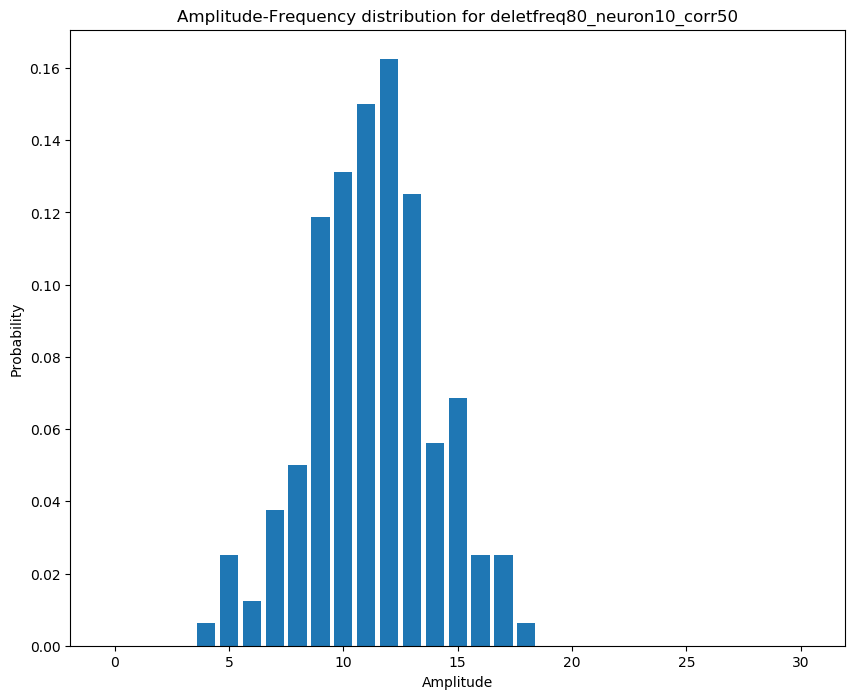
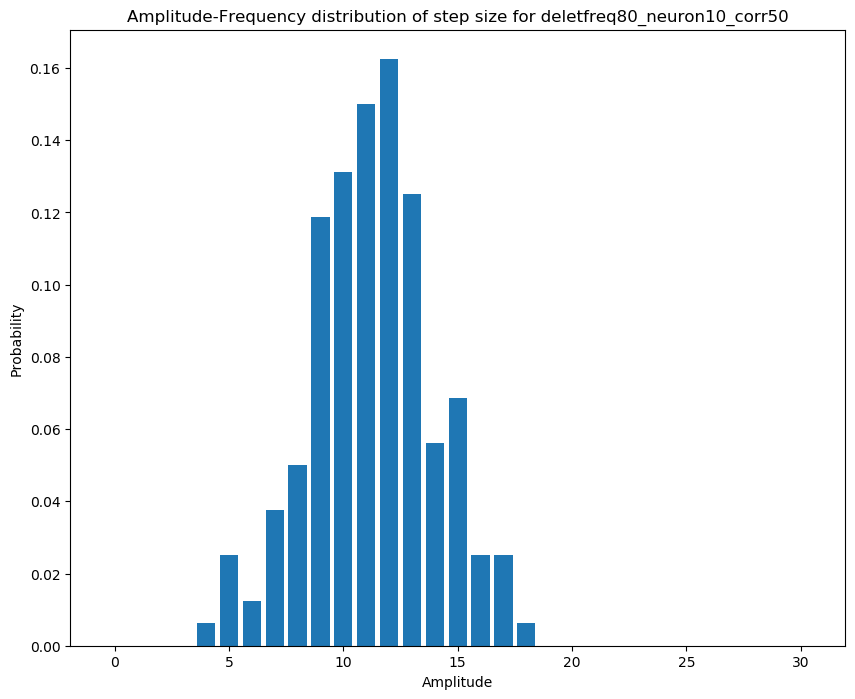
amplitude distribution of pauses in ms

Changed region(s): [[0.152, 0.0, 0.9123, 0.03]]

diff --git a/BasicModelSimulations/rasterplot.py b/BasicModelSimulations/rasterplot.py
@@ -5,9 +5,7 @@ import scipy.io as sio
 import numpy as np
 import os
 import warnings
-from scipy.ndimage import gaussian_filter1d
 from scipy import signal
-from scipy.signal import savgol_filter
 
 def progressbar(acc, total, total_bar):
     """ simple progressbar """
@@ -141,7 +139,7 @@ hist, bins = np.histogram(all_spikes, t_vec)
 plt.figure(2, figsize=(10,8))
 plt.hist(hist[hist != 0], range(31), ec='black')
 locs, labels = plt.yticks()
-plt.title("Amplitude distribution for " + exp_name)
+plt.title("Amplitude distribution of step size for " + exp_name)
 plt.xlabel('Amplitude')
 plt.ylabel('Nr of repetitions')
 plt.savefig(RESULTS_FOLDER + "\\" + "Amplitude distribution",bbox_inches='tight')
@@ -167,7 +165,7 @@ bars_full[bars] = bars_counts
 probs_full = bars_full/bars_full.sum()
 
 plt.figure(3, figsize=(10,8))
-plt.title("Amplitude-Frequency distribution for " + exp_name )
+plt.title("Amplitude-Frequency distribution of step size for " + exp_name )
 
 plt.bar(np.arange(len(bars_full)),probs_full)
 plt.xlabel('Amplitude')
@@ -214,7 +212,7 @@ plt.hist(hist[hist != 0], range(max_bin+1), ec='black')
 locs, labels = plt.yticks()
 plt.title("Amplitude distribution for bins of " + str(bin) + " ms for " + exp_name)
 plt.xlabel('Amplitude')
-plt.ylabel('Nr of repetitions')
+plt.ylabel('Counts')
 plt.savefig(RESULTS_FOLDER + "\\" + "Amplitude_distribution_bins",bbox_inches='tight')
 
 
@@ -252,60 +250,48 @@ plt.savefig(RESULTS_FOLDER + "\\" + "Amplitude-Frequency distribution bins",bbox
 
 ############################################################################################################
 ############################################################################################################
-#INVERSE AMPLITUDE DISTRIBUTION (PAUSES)
+#PAUSE AMPLITUDE DISTRIBUTION
 
-
-inverted_spike_bits = 1 - spike_bits
 #changing bits to actual times when there was no firing (inverse of firing)
-all_inverted_spikes = (np.nonzero(inverted_spike_bits[0,:])[0])/100
-for skptr in range(1,len(inverted_spike_bits)):
-      all_inverted_spikes = np.concatenate((all_inverted_spikes,
-                                            (np.nonzero(inverted_spike_bits[skptr,:])[0])/100), axis=None )
+inverted_spike_bits = 1 - spike_bits
+
+all_pauses =  np.zeros(inverted_spike_bits.shape[1])
+
+#logical and to get all pauses in a single vector
+for i in range(inverted_spike_bits.shape[1]):
+    if (all(inverted_spike_bits[:,i])):
+        all_pauses[i] = 1
 
 
+#count how many steps are in each pause
+consec_pauses = []
 
-np.sort(all_inverted_spikes)
-t_vec = np.arange(0,1000.01,0.01)
-hist, bins = np.histogram(all_inverted_spikes, t_vec)
+temp_counter = 0
+for i in all_pauses:
+    if (i):
+        temp_counter += 1
+    else:
+        consec_pauses.append(temp_counter)
+        temp_counter = 0
 
+#save last set
+consec_pauses.append(temp_counter)       
+consec_pauses = np.asarray(consec_pauses, dtype=np.float32)
+consec_pauses = consec_pauses[consec_pauses != 0]
+
+#convert pauses to time in ms, because they are pauses in 0.01ms steps
+consec_pauses = consec_pauses/100
 
 
 
 plt.figure(6, figsize=(10,8))
-plt.hist(hist[hist != 0], range(30), ec='black')
-locs, labels = plt.yticks()
+plt.hist(consec_pauses, 20, ec='black')
 plt.title("Amplitude distribution of pauses for " + exp_name)
-plt.xlabel('Amplitude')
-plt.ylabel('Nr of repetitions')
-plt.savefig(RESULTS_FOLDER + "\\" + "Amplitude distribution pauses without n = 30",bbox_inches='tight')
+plt.xlabel('Pauses in ms')
+plt.ylabel('Counts')
+plt.savefig(RESULTS_FOLDER + "\\" + "Amplitude distribution pauses",bbox_inches='tight')
 
 
-
-
-############################################################################################################
-############################################################################################################
-#BINNED INVERSE AMPLITUDE DISTRIBUTION (PAUSES)
-
-bin = float(input("select bin for amplitude-probability distribution of pauses: "))
-
-
-
-
-t_vec = np.arange(0,1000+bin,bin)
-hist, bins = np.histogram(all_inverted_spikes, t_vec)
-
-min_bin = min(hist)
-max_bin = max(hist)
-
-
-
-plt.figure(7, figsize=(10,8))
-plt.hist(hist[hist != 0], range(min_bin,max_bin), ec='black')
-locs, labels = plt.yticks()
-plt.title("Amplitude distribution of pauses for bins of " + str(bin) + " ms for " + exp_name)
-plt.xlabel('Amplitude')
-plt.ylabel('Nr_repetitions')
-plt.savefig(RESULTS_FOLDER + "\\" + "Amplitude_distribution_bins_pauses",bbox_inches='tight')
 
 
 
@@ -361,7 +347,7 @@ baseline_firing_rate = (baseline_firing_rate_np * (1000/firing_rate_bin)) / 30-n
 freqinc_firing_rate = (freqinc_firing_rate_np * (1000/firing_rate_bin)) / nr_neurons
 
 
-kernel_std = int(input("Selectstd for gaussian kernel : "))    
+kernel_std = int(input("Select stdev for gaussian kernel : "))    
 kernel_width = int(input("Select width for gaussian kernel : "))
 
     
@@ -385,17 +371,9 @@ axs[0].set_title("Firing rate of all neurons")
 axs[1].set_title("Firing rate of baseline neurons")
 axs[2].set_title("Firing rate of freqinc neurons")
 
-fig.text(0.08, 0.5, 'Firing rate (Hz)', ha='center', va='center', rotation='vertical', fontsize=20 )
-plt.xlabel('Time (ms)', fontsize=20)
-
-
-plt.figure(8, figsize=(10,8))
-plt.plot( np.arange(0,1000,firing_rate_bin) , all_convolved_firing_rate )
-plt.title("Population firing rate for bins of: "+ str(firing_rate_bin) + " ms for " + exp_name)
-plt.xlabel('Time (ms)')
-plt.ylabel('Firing rate (Hz)')
-plt.savefig(RESULTS_FOLDER + "\\" + "Population firing rate",bbox_inches='tight')
-
+fig.text(0.08, 0.5, 'Firing rate (Hz)', ha='center', va='center', rotation='vertical', fontsize=18 )
+plt.xlabel('Time (ms)', fontsize=18)
+plt.savefig(RESULTS_FOLDER + "\\" + "Populations firing rate",bbox_inches='tight')
 
 
 
